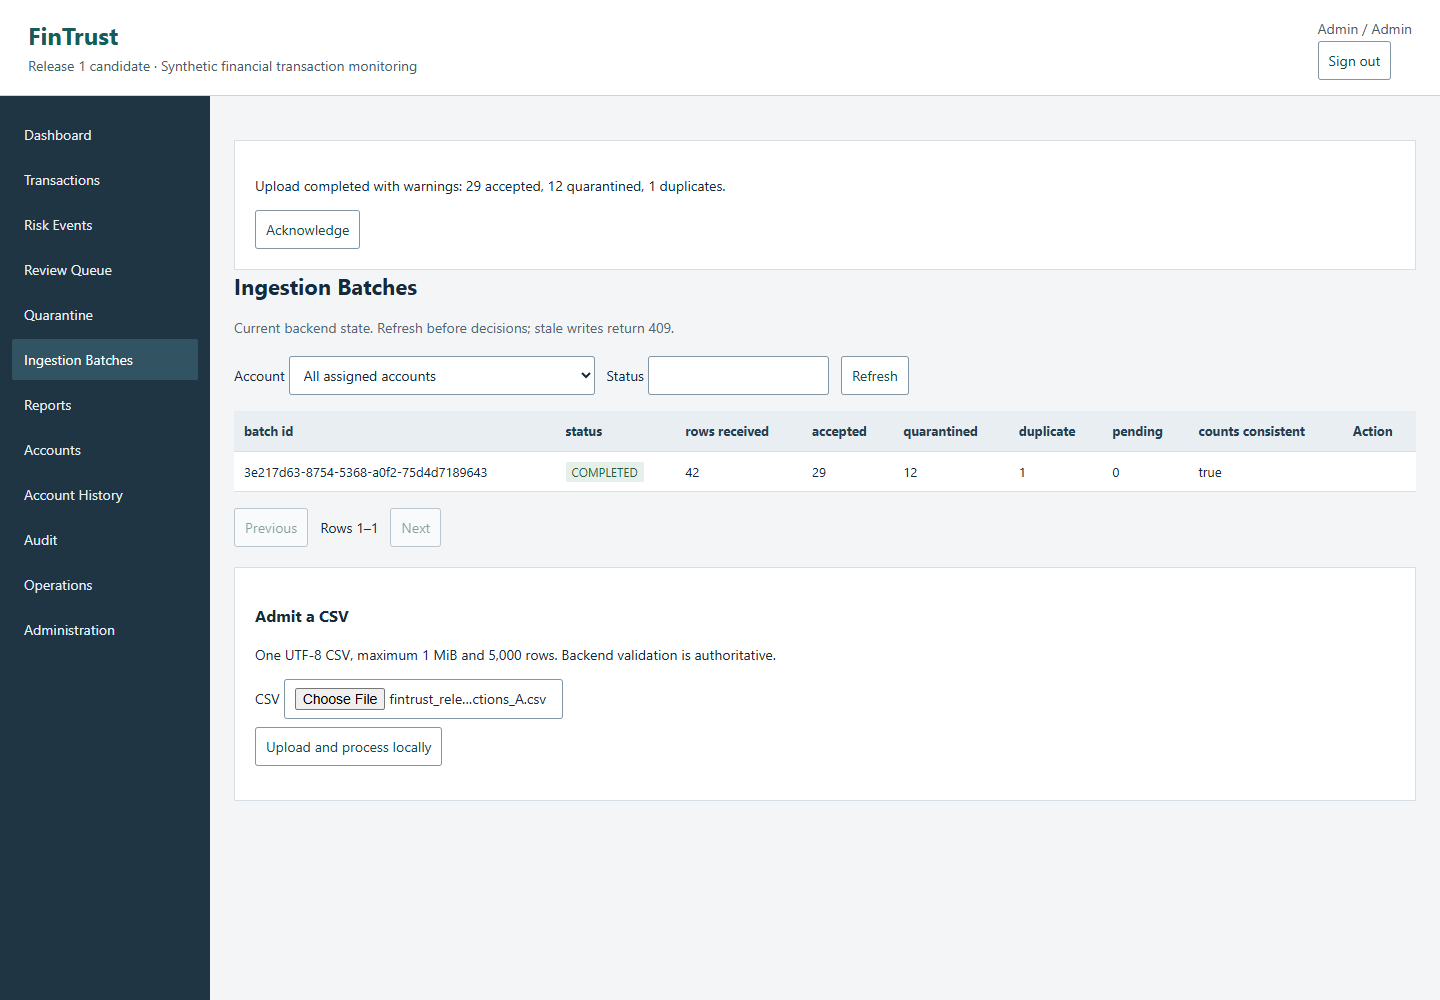
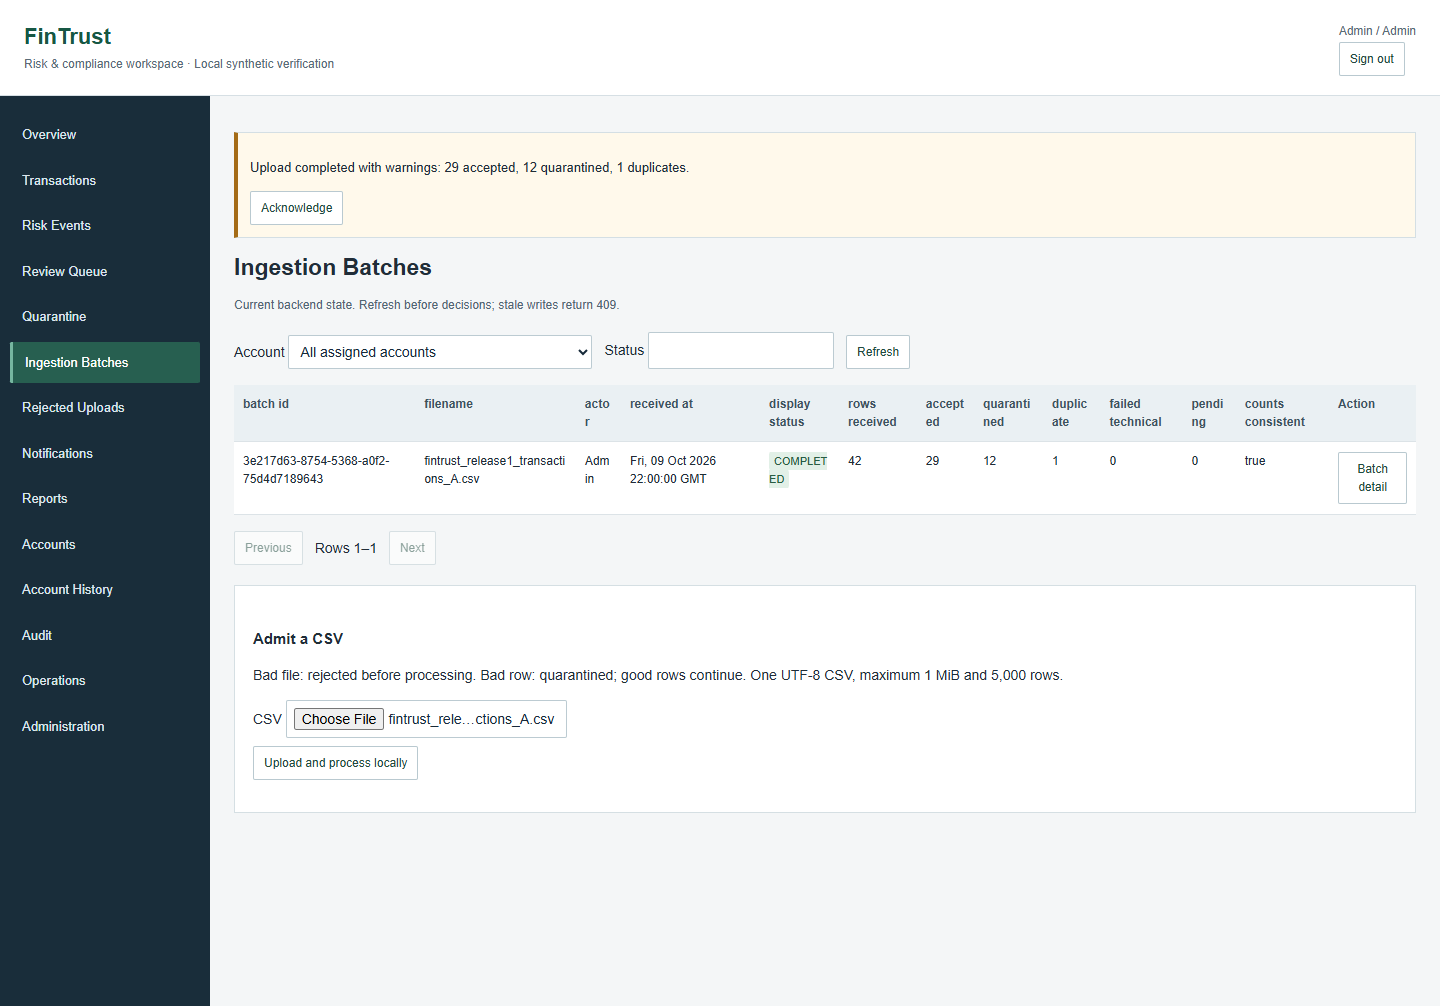
Record verified Release 1 frontend workflows and browser evidence

diff --git a/docs/RELEASE1_FRONTEND_FREEZE.md b/docs/RELEASE1_FRONTEND_FREEZE.md
@@ -50,3 +50,15 @@ Browser gate uses real isolated PostgreSQL and the actual A/B fixtures, with S3/
 Focused and full regression results, source commit and screenshot manifest are recorded in `docs/EVIDENCE/12-e2e/release1-lifecycle/frontend-freeze-result.json` after the final gates. Screenshots remain in the existing `release1-lifecycle/browser/` evidence folder. No new evidence hierarchy is introduced.
 
 Application/API code and packaged frontend changed. A NEW Linux CPython 3.12 x86_64 release ZIP and CI/import/content/role gates are required before any upload/deployment; the prior verified ZIP remains historical evidence and is not silently relabelled. No rebuild/upload/push is authorized by this frontend phase. Live migration 002/operator/Secrets Manager endpoint approval and deployment prerequisites remain separate from this local frontend freeze.
+
+## Final local verification result
+
+Source commit: `b517e78c566426ebef9c57951b1cb1d2c2a7e3f3`.
+
+- Browser gate: PASSED on this source commit; all four roles, 25 synthetic screenshots, no page errors, no external/AWS transport.
+- Focused frontend/workflow subset: 55 passed, 0 failed, 0 skipped within the final full run. The 11 new presentation contract tests also passed separately.
+- Full local regression: 603 passed, 0 failed, 1 expected skip, 0 unexpected skips. The skipped test is `tests.data_quality.test_processing.test_database_roles_can_execute_pipeline_without_owner_privileges`: it requires a disposable database administrator, while this local test identity is deliberately not an administrator. This is not a claim of a newly executed PG16 administrator role proof; that remains part of the new Linux/CI release gate.
+- Backend/test sources in the full run match this source commit; final frontend browser verification ran after the last JavaScript change.
+- Detailed results and sanitized JUnit/output: `EVIDENCE/12-e2e/release1-lifecycle/frontend-freeze-result.json` and `frontend-freeze-{full-regression,focused,browser}.{xml,txt}`.
+- Visual inspection: overview, batch reconciliation, possible duplicate-charge comparison and Maintainer operations reviewed. Presentation screenshots include upload warnings/replay, rejection history, duplicate occurrences, quarantine detail/resubmission, High risk, review to CLEARED, notifications, audit, Auditor and API-unavailable states.
+- No frontend blockers remain for this local freeze. A new Linux package and separate deployment/security approvals remain required; this result is not authorization to mutate AWS.
